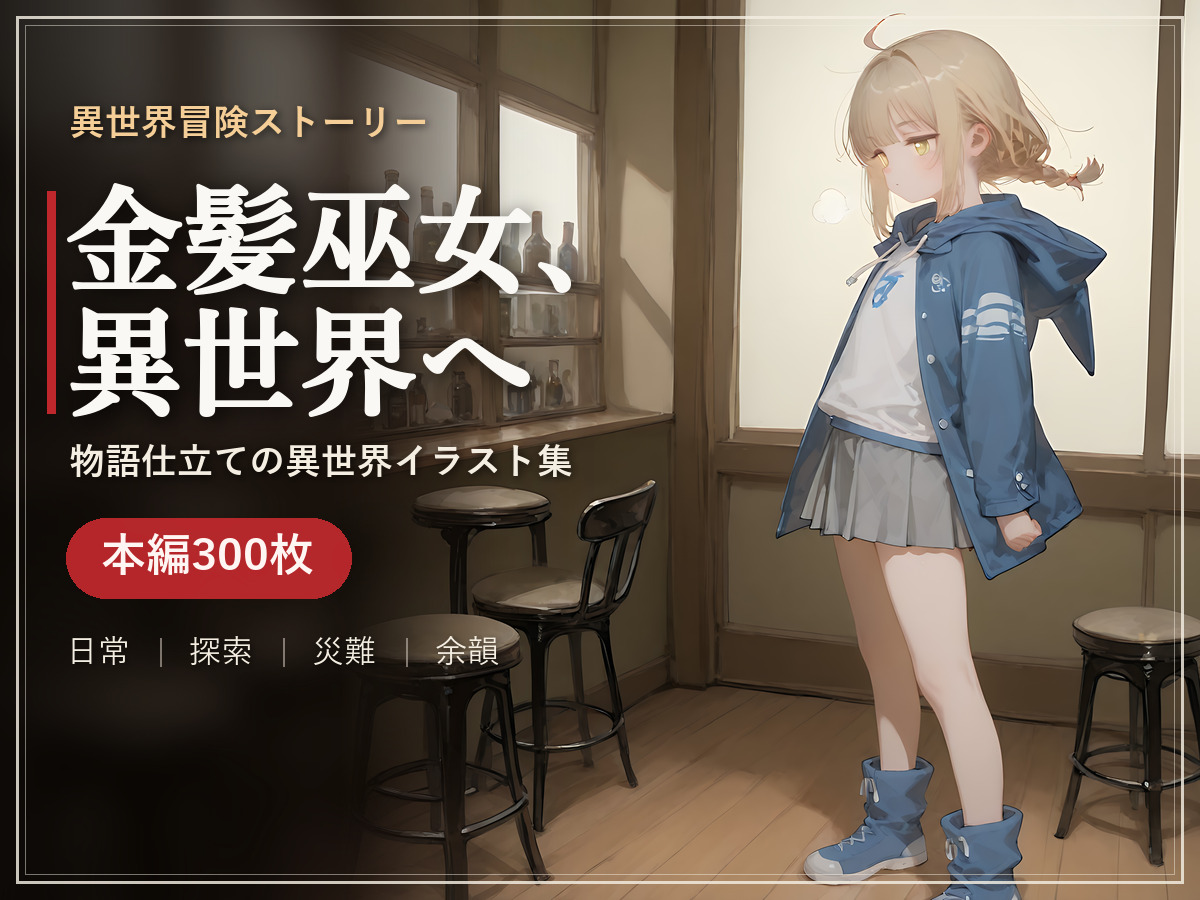
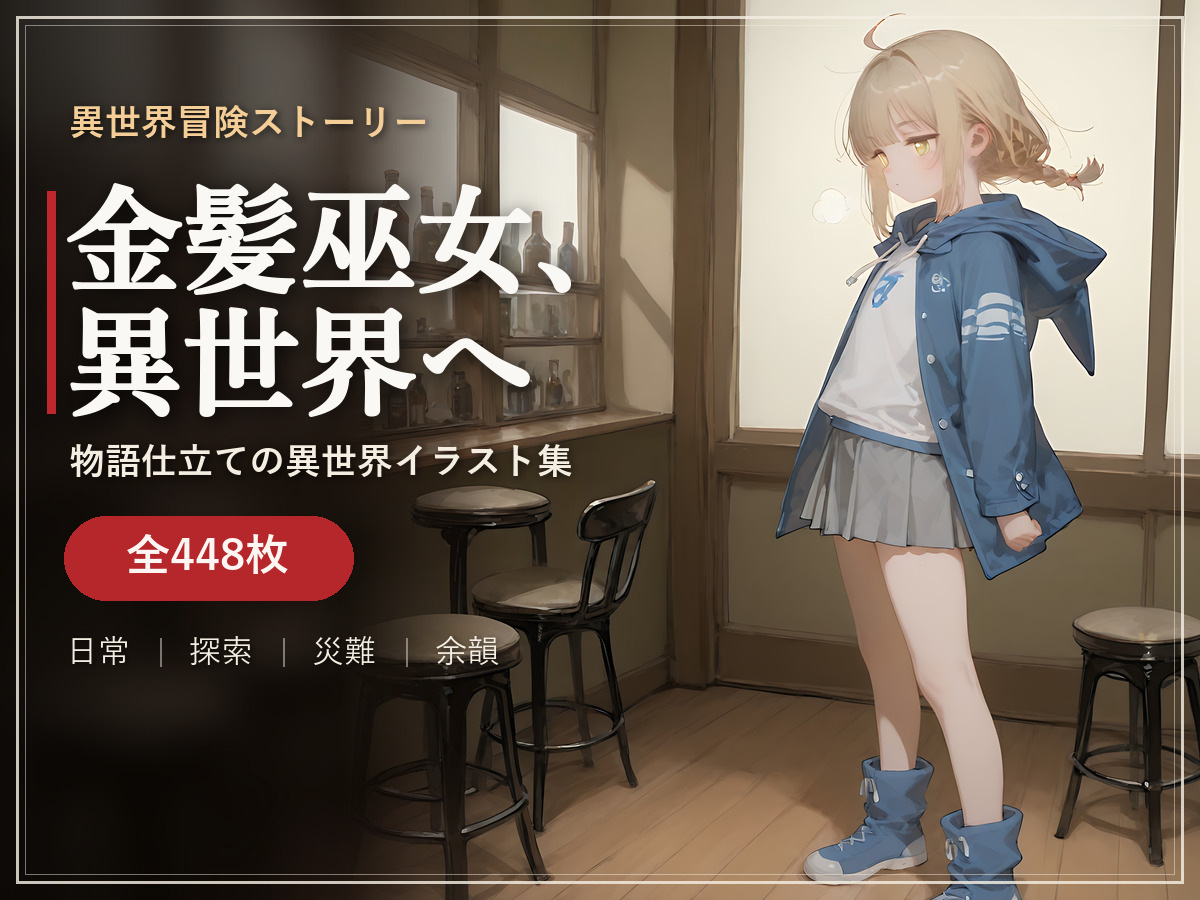
金髪巫女、異世界へ: 全448枚(本編300＋無料体験版148)表記に統一
DLsite規約対応(体験版を本体に同梱)に合わせ、HP側の枚数・紹介文を全448枚の框組みへ統一。
- 枚数 300→448(本編300+体験版148)、アーカイブバッジを448枚収録に
- 「重複ゼロ/別物/重複なし」表記を全削除(体験版は本体に含む)
- カバー/サムネ/OGP画像を全448枚版に差し替え
- 日英中韓4言語＋meta/OGP更新、JS?v=isekai-448/画像?v=448でキャッシュバスト

Changed region(s): [[0.0925, 0.5911, 0.2775, 0.6533]]

diff --git a/works/index.html b/works/index.html
@@ -94,12 +94,12 @@
 
         <section class="featured-card">
           <a class="featured-media featured-media-link" href="../titles/kinpatsu-miko-isekai.html" aria-label="金髪巫女、異世界への作品詳細を見る">
-            <img src="../0501_改修資料/kinpatsu-miko-isekai/thumb.jpg" alt="金髪巫女、異世界へ / Blonde Shrine Maiden, To Another World" width="560" height="420" loading="lazy" decoding="async">
+            <img src="../0501_改修資料/kinpatsu-miko-isekai/thumb.jpg?v=448" alt="金髪巫女、異世界へ / Blonde Shrine Maiden, To Another World" width="560" height="420" loading="lazy" decoding="async">
           </a>
           <div class="featured-copy">
             <p class="eyebrow" data-ja="ピックアップ" data-en="Pickup" data-zh="推荐" data-ko="픽업">ピックアップ</p>
             <h2 id="latest-title" data-ja="金髪巫女、異世界へ / Blonde Shrine Maiden, To Another World" data-en="Blonde Shrine Maiden, To Another World / 金髪巫女、異世界へ" data-zh="金发巫女、异世界 / Blonde Shrine Maiden, To Another World" data-ko="금발 무녀, 이세계로 / Blonde Shrine Maiden, To Another World">金髪巫女、異世界へ / Blonde Shrine Maiden, To Another World</h2>
-            <p data-ja="気がつくと見知らぬ異世界。灯りのともる宿で過ごす日常から、街の探索、そして“災難”へ。旅の出来事を物語のように描いた、本編300枚の高解像度イラスト集です。＋無料体験版148枚（本編と重複なし）。" data-en="She wakes in another world. From daily life at a softly lit inn to town exploration and an unavoidable calamity — a story-style collection of 300 high-resolution images. Plus a free 148-image trial (no overlap with the main set)." data-zh="回过神来已身处异世界。从旅店日常到街区探索，再到无法回避的“灾难”，以故事感呈现的本篇300张高分辨率插画集。＋免费体验版148张（与本篇无重复）。" data-ko="정신을 차리니 이세계. 등불이 켜진 여관에서의 일상부터 거리 탐색, 그리고 피할 수 없는 ‘재난’까지. 본편 300장 고해상도 이야기형 일러스트집입니다. ＋무료 체험판 148장(본편과 중복 없음).">気がつくと見知らぬ異世界。灯りのともる宿で過ごす日常から、街の探索、そして“災難”へ。旅の出来事を物語のように描いた、本編300枚の高解像度イラスト集です。＋無料体験版148枚（本編と重複なし）。</p>
+            <p data-ja="気がつくと見知らぬ異世界。灯りのともる宿で過ごす日常から、街の探索、そして“災難”へ。旅の出来事を物語のように描いた、全448枚（本編300枚＋無料体験版148枚）の高解像度イラスト集です。" data-en="She wakes in another world. From daily life at a softly lit inn to town exploration and an unavoidable calamity — a story-style collection of 448 high-resolution images in total (300 main + 148 also in the free trial)." data-zh="回过神来已身处异世界。从旅店日常到街区探索，再到无法回避的“灾难”，以故事感呈现的全448张高分辨率插画集（本篇300张＋体验版也可观看的148张）。" data-ko="정신을 차리니 이세계. 등불이 켜진 여관에서의 일상부터 거리 탐색, 그리고 피할 수 없는 ‘재난’까지. 총 448장 고해상도 이야기형 일러스트집입니다(본편 300장＋체험판에서도 볼 수 있는 148장).">気がつくと見知らぬ異世界。灯りのともる宿で過ごす日常から、街の探索、そして“災難”へ。旅の出来事を物語のように描いた、全448枚（本編300枚＋無料体験版148枚）の高解像度イラスト集です。</p>
             <div class="button-grid">
               <a class="link-button primary" href="../titles/kinpatsu-miko-isekai.html" data-ja="作品詳細を見る" data-en="View work details" data-zh="查看作品详情" data-ko="작품 상세 보기" data-analytics-link="detail" data-analytics-area="featured" data-analytics-work="blonde-shrine-maiden-isekai">作品詳細を見る</a>
               <a class="link-button" href="https://prompt-com.com/ja/p/fcea3420-06fc-4a52-b3ff-1cf4343f588b" target="_blank" rel="noopener noreferrer" data-ja="prompt-comで見る" data-en="View on prompt-com" data-zh="在 prompt-com 查看" data-ko="prompt-com에서 보기" data-analytics-link="promptcom" data-analytics-area="featured" data-analytics-work="blonde-shrine-maiden-isekai">prompt-comで見る</a>
@@ -176,7 +176,7 @@
       </footer>
     </div>
 
-    <script src="../script.js?v=isekai-20260630"></script>
+    <script src="../script.js?v=isekai-448-20260630"></script>
     <script src="../assets/js/back-to-top.js"></script>
 
   </body>

diff --git a/assets/js/title.js b/assets/js/title.js
@@ -86,7 +86,7 @@
 
   const shortTranslations = {
     "kinpatsu-miko-isekai": {
-      summary: { en: "A story-style isekai CG set: from inn-side daily life to town exploration and an unavoidable calamity, 300 high-res images, plus a free 148-image trial.", zh: "故事感异世界CG集：从旅店日常到街区探索，再到无法回避的“灾难”，本篇300张高分辨率。＋免费体验版148张。", ko: "이야기형 이세계 CG집: 여관에서의 일상부터 거리 탐색, 피할 수 없는 ‘재난’까지, 본편 300장 고해상도. ＋무료 체험판 148장." },
+      summary: { en: "A story-style isekai CG set: from inn-side daily life to town exploration and an unavoidable calamity. 448 high-res images in total (300 main + 148 also viewable in the free trial).", zh: "故事感异世界CG集：从旅店日常到街区探索，再到无法回避的“灾难”。全448张高分辨率（本篇300张＋体验版也可观看的148张）。", ko: "이야기형 이세계 CG집: 여관에서의 일상부터 거리 탐색, 피할 수 없는 ‘재난’까지. 총 448장 고해상도(본편 300장＋체험판에서도 볼 수 있는 148장)." },
       format: { en: "Daily life, exploration, calamity, afterglow", zh: "日常 / 探索 / 灾难 / 余韵", ko: "일상 / 탐색 / 재난 / 여운" },
       focus: { en: "Isekai inn / Town exploration / Story format", zh: "异世界旅店 / 街区探索 / 故事形式", ko: "이세계 여관 / 거리 탐색 / 이야기 구성" }
     },
@@ -142,9 +142,9 @@ A blonde-haired shrine maiden settles into a softly lit inn and, in a place wher
 
 Steam rising from a cup, old bookshelves, paper lanterns swaying in the night wind. From a gentle everyday rhythm to exploring an unknown town, and then an unavoidable "calamity," the work follows the events she meets along the way, drawn one image at a time like reading through a story.
 
-The main set contains 300 high-resolution images, composed in the flow of "daily life, exploration, calamity, afterglow," so it reads almost like an illustrated tale.
+In total the collection contains 448 high-resolution images — 300 main images plus the 148 images you can also preview in the free trial — composed in the flow of "daily life, exploration, calamity, afterglow," so it reads almost like an illustrated tale.
 
-The 148 images in the free trial are not included in the main set at all (zero overlap), so the trial works as a bonus. Together, the trial and the main set come to 448 images.`
+Everything you can see in the free trial is included here as well, so you can enjoy all 448 images in a single collection.`
     },
     "eroboxin-akane": {
       en: `Akane is a girl whose composure has been shaken by the strange drug Erobokishin 4649.
@@ -615,12 +615,12 @@ It is an omnibus-style fetish CG collection combining Setouchi scenery with a gi
 湯気の立つカップ、古い書架、夜風に揺れる提灯。やわらかな日常から、未知の街への探索、そして避けては通れない“災難”へ――。旅の途中で彼女が出会っていく出来事を、一枚一枚、物語を読み進めるように描きました。
 
 【収録内容】
-・本編 全300枚（高解像度イラスト集）
+・全448枚（高解像度イラスト集）＝本編300枚＋無料体験版でも見られる148枚
 ・「日常 → 探索 → 災難 → 余韻」の流れで構成した、読み物感覚のCG集
 ・宿屋・街並み・夜の灯りなど、作り込んだ異世界の情景とともにお届け
 
-【体験版について】
-無料体験版の148枚は、本編300枚には1枚も含まれていません（重複ゼロ）。体験版＋本編をあわせると、全448枚をまるごとお楽しみいただけます。
+【ボリュームについて】
+無料体験版でご覧いただける148枚もすべて含めた、全448枚の大ボリューム。本編300枚に加えて、体験版の148枚もまるごと収録しています。
 
 物語として最後まで楽しめる、異世界スローライフ＆アドベンチャー。金髪巫女が異世界で辿る顛末を、どうぞ見届けてください。`,
     "school-legs": `制服姿の少女たちの通学風景や、やわらかな光の中で見せる美脚・足元の表情をまとめたAIイラスト集です。

diff --git a/titles/kinpatsu-miko-isekai.html b/titles/kinpatsu-miko-isekai.html
@@ -4,18 +4,18 @@
     <meta charset="utf-8">
     <meta name="viewport" content="width=device-width, initial-scale=1">
     <base href="../">
-    <meta name="description" content="気がつくと見知らぬ異世界。灯りのともる宿での日常から、街の探索、そして“災難”へ。旅の出来事を物語のように描いた本編300枚の高解像度イラスト集。">
+    <meta name="description" content="気がつくと見知らぬ異世界。灯りのともる宿での日常から、街の探索、そして“災難”へ。旅の出来事を物語のように描いた、全448枚（本編300枚＋無料体験版148枚）の高解像度イラスト集。">
     <link rel="canonical" href="https://esunamura.com/titles/kinpatsu-miko-isekai.html">
     <meta property="og:type" content="article">
     <meta property="og:site_name" content="えすなむら">
     <meta property="og:title" content="金髪巫女、異世界へ | えすなむら">
-    <meta property="og:description" content="気がつくと見知らぬ異世界。灯りのともる宿での日常から、街の探索、そして“災難”へ。本編300枚の物語仕立て高解像度イラスト集。">
+    <meta property="og:description" content="気がつくと見知らぬ異世界。灯りのともる宿での日常から、街の探索、そして“災難”へ。全448枚（本編300枚＋無料体験版148枚）の物語仕立て高解像度イラスト集。">
     <meta property="og:url" content="https://esunamura.com/titles/kinpatsu-miko-isekai.html">
-    <meta property="og:image" content="https://esunamura.com/0501_%E6%94%B9%E4%BF%AE%E8%B3%87%E6%96%99/kinpatsu-miko-isekai/ogp.jpg">
+    <meta property="og:image" content="https://esunamura.com/0501_%E6%94%B9%E4%BF%AE%E8%B3%87%E6%96%99/kinpatsu-miko-isekai/ogp.jpg?v=448">
     <meta name="twitter:card" content="summary_large_image">
     <meta name="twitter:title" content="金髪巫女、異世界へ | えすなむら">
-    <meta name="twitter:description" content="気がつくと見知らぬ異世界。灯りのともる宿での日常から、街の探索、そして“災難”へ。本編300枚の物語仕立て高解像度イラスト集。">
-    <meta name="twitter:image" content="https://esunamura.com/0501_%E6%94%B9%E4%BF%AE%E8%B3%87%E6%96%99/kinpatsu-miko-isekai/ogp.jpg">
+    <meta name="twitter:description" content="気がつくと見知らぬ異世界。灯りのともる宿での日常から、街の探索、そして“災難”へ。全448枚（本編300枚＋無料体験版148枚）の物語仕立て高解像度イラスト集。">
+    <meta name="twitter:image" content="https://esunamura.com/0501_%E6%94%B9%E4%BF%AE%E8%B3%87%E6%96%99/kinpatsu-miko-isekai/ogp.jpg?v=448">
     <title>金髪巫女、異世界へ | えすなむら</title>
     <link rel="icon" type="image/png" sizes="32x32" href="images/favicon-new-32x32.png?v=2">
     <link rel="stylesheet" href="style.css?v=rating-badges-20260526">
@@ -81,10 +81,10 @@
       </footer>
     </div>
 
-    <script src="assets/js/works.js?v=isekai-20260630"></script>
+    <script src="assets/js/works.js?v=isekai-448-20260630"></script>
     <script src="assets/js/analytics-loader.js"></script>
     <script>window.DETAIL_WORK_ID = "kinpatsu-miko-isekai";</script>
-    <script src="assets/js/title.js?v=isekai-20260630"></script>
+    <script src="assets/js/title.js?v=isekai-448-20260630"></script>
     <script src="assets/js/image-lightbox.js"></script>
     <script src="assets/js/back-to-top.js"></script>
 

diff --git a/script.js b/script.js
@@ -237,8 +237,8 @@
   {
     title: { ja: "金髪巫女、異世界へ / Blonde Shrine Maiden, To Another World", en: "Blonde Shrine Maiden, To Another World / 金髪巫女、異世界へ" },
     slug: "blonde-shrine-maiden-isekai",
-    image: "0501_改修資料/kinpatsu-miko-isekai/thumb.jpg",
-    thumbnail: "0501_改修資料/kinpatsu-miko-isekai/thumb.jpg",
+    image: "0501_改修資料/kinpatsu-miko-isekai/thumb.jpg?v=448",
+    thumbnail: "0501_改修資料/kinpatsu-miko-isekai/thumb.jpg?v=448",
     imageWidth: 560,
     imageHeight: 420,
     links: {
@@ -267,10 +267,10 @@ const promptcomPanels = document.querySelectorAll("[data-promptcom-panel]");
 
 const workDescriptions = {
   "blonde-shrine-maiden-isekai": {
-    ja: "気がつくと見知らぬ異世界。灯りのともる宿での日常から、街の探索、そして“災難”へ。旅の出来事を物語のように描いた本編300枚の高解像度イラスト集です。＋無料体験版148枚。",
-    en: "A blonde shrine maiden wakes in another world. From inn-side daily life to town exploration and an unavoidable calamity, told like a story across 300 high-resolution images. Plus a free 148-image trial.",
-    zh: "金发巫女醒来时已身处异世界。从旅店日常到街区探索，再到无法回避的“灾难”，以故事感呈现的本篇300张高分辨率插画集。＋免费体验版148张。",
-    ko: "정신을 차리니 낯선 이세계. 등불이 켜진 여관에서의 일상부터 거리 탐색, 그리고 피할 수 없는 ‘재난’까지. 여행의 사건을 이야기처럼 그린 본편 300장 고해상도 일러스트집입니다. ＋무료 체험판 148장."
+    ja: "気がつくと見知らぬ異世界。灯りのともる宿での日常から、街の探索、そして“災難”へ。旅の出来事を物語のように描いた、全448枚（本編300枚＋無料体験版148枚）の高解像度イラスト集です。",
+    en: "A blonde shrine maiden wakes in another world. From inn-side daily life to town exploration and an unavoidable calamity, told like a story across 448 high-resolution images in total (300 main + 148 also in the free trial).",
+    zh: "金发巫女醒来时已身处异世界。从旅店日常到街区探索，再到无法回避的“灾难”，以故事感呈现的全448张高分辨率插画集（本篇300张＋体验版也可观看的148张）。",
+    ko: "정신을 차리니 낯선 이세계. 등불이 켜진 여관에서의 일상부터 거리 탐색, 그리고 피할 수 없는 ‘재난’까지. 여행의 사건을 이야기처럼 그린 총 448장 고해상도 일러스트집입니다(본편 300장＋체험판에서도 볼 수 있는 148장)."
   },
   "satogaeri": {
     ja: "田舎の夏、幼馴染、覗き見感。帰省先で距離が少しずつ変わっていく流れを描く作品。",
@@ -399,7 +399,7 @@ const workTitleTranslations = {
 
 const workArchiveMeta = {
   "blonde-shrine-maiden-isekai": {
-    count: { ja: "300枚収録", en: "300 images", zh: "收录300张", ko: "300장 수록" },
+    count: { ja: "448枚収録", en: "448 images", zh: "收录448张", ko: "448장 수록" },
     quality: "4K",
     series: { ja: "異世界ストーリー", en: "Isekai Story", zh: "异世界故事", ko: "이세계 스토리" },
     tags: { ja: ["異世界", "巫女"], en: ["Isekai", "Shrine maiden"], zh: ["异世界", "巫女"], ko: ["이세계", "무녀"] }

diff --git a/assets/js/works.js b/assets/js/works.js
@@ -499,12 +499,12 @@ The images move through morning streets, stairs, classrooms, and small daily mom
     folder: "kinpatsu-miko-isekai",
     title: { ja: "金髪巫女、異世界へ" },
     series: "異世界ストーリー",
-    cover: "0501_改修資料/kinpatsu-miko-isekai/cover.jpg",
+    cover: "0501_改修資料/kinpatsu-miko-isekai/cover.jpg?v=448",
     samples: [],
-    count: "300枚",
+    count: "448枚",
     format: "日常 → 探索 → 災難 → 余韻",
     focus: "異世界の宿 / 街の探索 / 物語仕立て",
-    summary: "気がつくと見知らぬ異世界。灯りのともる宿で過ごす日常から、街の探索、そして“災難”へ。旅の出来事を物語のように描いた本編300枚の高解像度イラスト集。＋無料体験版148枚。",
+    summary: "気がつくと見知らぬ異世界。灯りのともる宿で過ごす日常から、街の探索、そして“災難”へ。旅の出来事を物語のように描いた、全448枚（本編300枚＋無料体験版148枚）の高解像度イラスト集。",
     description: {
       ja: `気がつくと、そこは見知らぬ異世界――。
 
@@ -512,14 +512,14 @@ The images move through morning streets, stairs, classrooms, and small daily mom
 
 湯気の立つカップ、古い書架、夜風に揺れる提灯。やわらかな日常から、未知の街への探索、そして避けては通れない“災難”へ――。旅の途中で彼女が出会っていく出来事を、一枚一枚、物語を読み進めるように描きました。
 
-本編は全300枚（高解像度イラスト集）。「日常 → 探索 → 災難 → 余韻」の流れで構成した、読み物感覚のCG集です。
+本編300枚に、無料体験版でもご覧いただける148枚を加えた、全448枚の大ボリューム（高解像度イラスト集）。「日常 → 探索 → 災難 → 余韻」の流れで構成した、読み物感覚のCG集です。
 
-無料体験版の148枚は本編に1枚も含まれていません（重複ゼロ）。体験版＋本編をあわせると全448枚をお楽しみいただけます。`,
+体験版でご覧いただける絵もすべて本編に収録。全448枚をまるごとお楽しみいただけます。`,
       en: `She wakes up in an unfamiliar other world. A blonde-haired shrine maiden settles into a softly lit inn and begins a new daily life in a place where she knows no one.
 
 Steam rising from a cup, old bookshelves, paper lanterns swaying in the night wind. From a gentle everyday rhythm to exploring an unknown town, and then an unavoidable "calamity," the work follows the events she meets like reading through a story.
 
-The main set contains 300 high-resolution images, arranged as a readable CG collection in the flow of "daily life, exploration, calamity, afterglow." The 148 free-trial images are not included in the main set (zero overlap); together they total 448 images.`
+In total the collection contains 448 high-resolution images — 300 main images plus the 148 images you can also preview in the free trial — arranged as a readable CG collection in the flow of "daily life, exploration, calamity, afterglow."`
     },
     phases: ["日常", "探索", "災難", "余韻"],
     tags: ["異世界", "巫女", "金髪", "ストーリー重視", "大ボリューム"],
